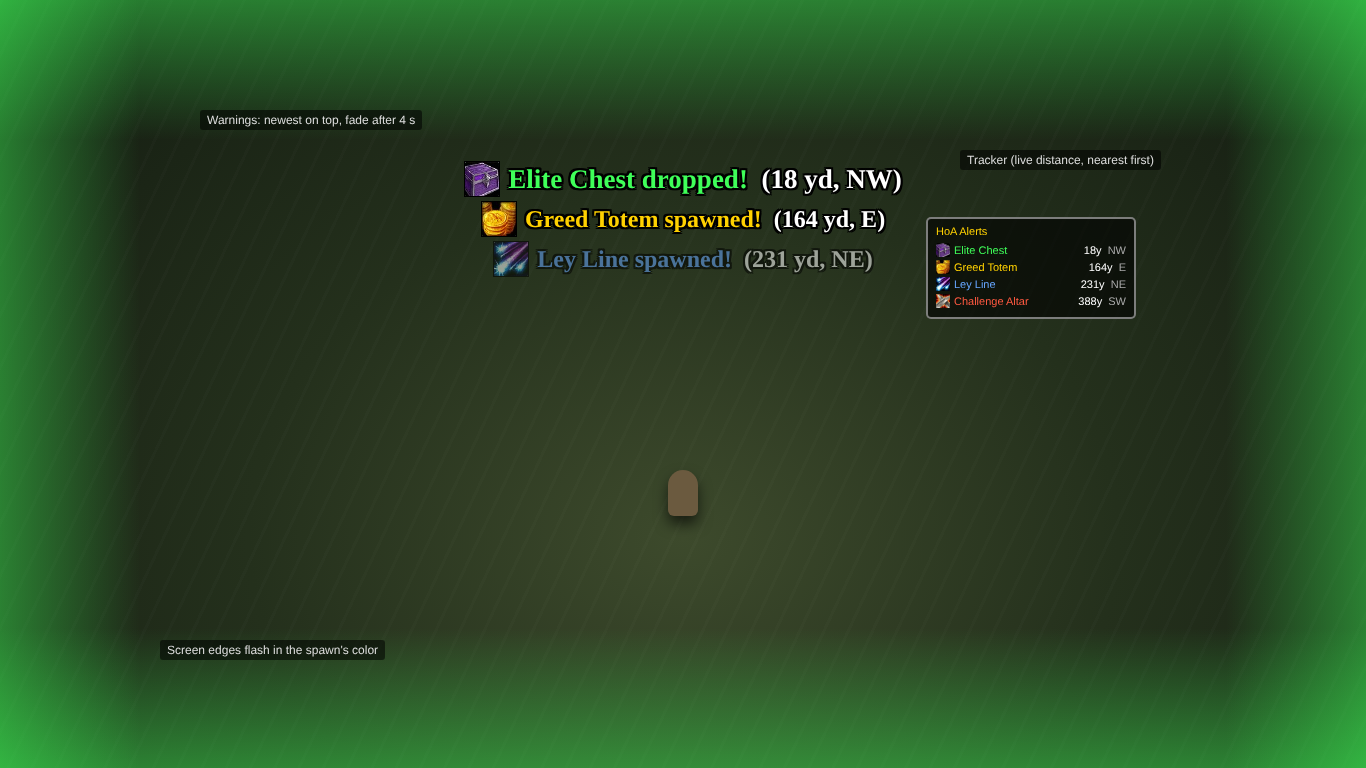
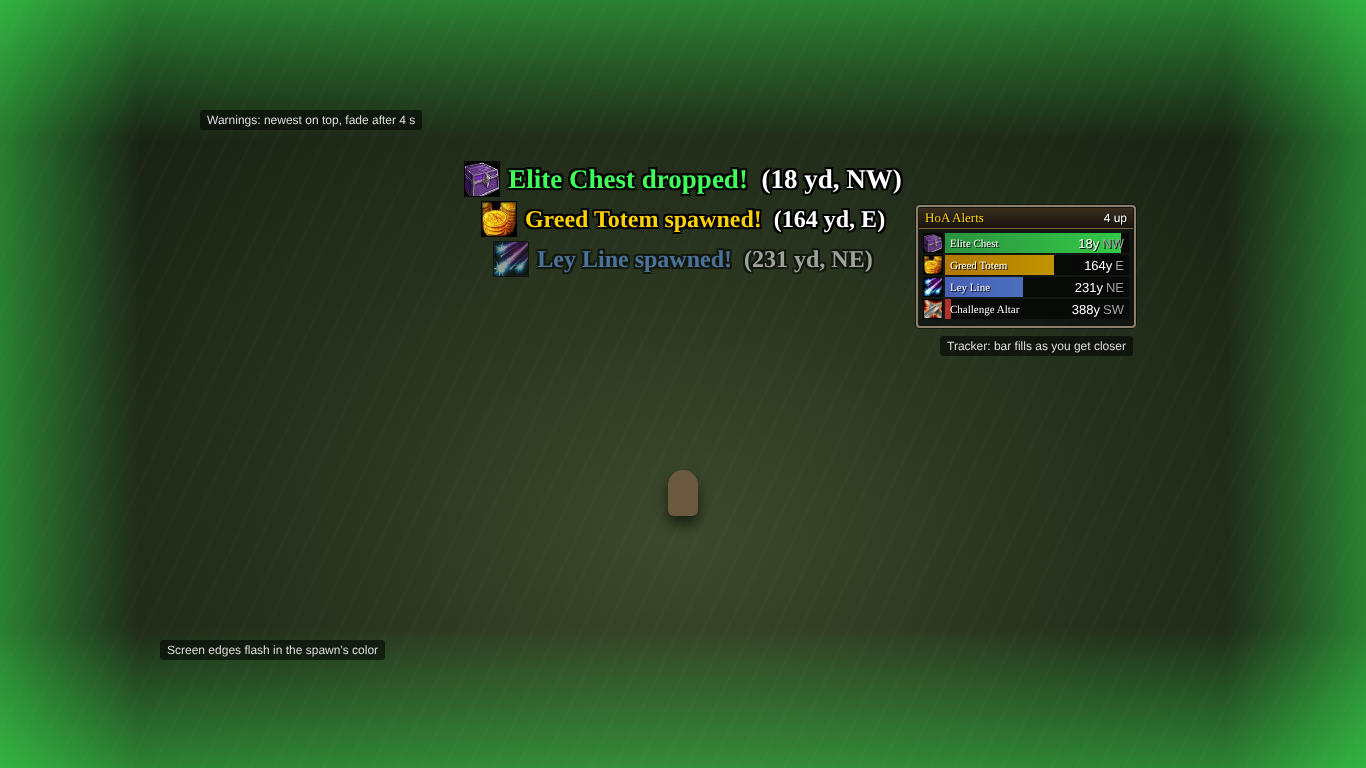
Restyle the tracker to match the damage meter
Use the meter's look: flat dark panel with the gold-brown tooltip
border, gradient header with a gold title and a count on the right, and
20 px rows with a black-framed icon, dark track and a left-to-right
shaded bar in the spawn's color. The bar shows closeness (full on top
of a spawn, empty at 400+ yards) and glides like the meter's bars.
Names use Friz Quadrata and numbers Arial Narrow, as in the meter.

Refresh the README preview to the new style.

Claude-Session: https://claude.ai/code/session_01QKDwL12sXUyq5tjcKJktwx

Changed region(s): [[0.6457, 0.25, 0.8302, 0.4688], [0.7072, 0.1875, 0.8302, 0.2188]]

diff --git a/README.md b/README.md
@@ -18,7 +18,7 @@ Each warning can:
 - play a **sound**
 - **flash the screen edges** in the spawn's color
 - print a **chat message**
-- add the spawn to a small **tracker list** that shows every active spawn, nearest first, with live distance and compass direction (N, NE, E, ...; north is up on the map)
+- add the spawn to a small **tracker list**, styled like the game's damage meter, that shows every active spawn, nearest first, with live distance and compass direction (N, NE, E, ...; north is up on the map). Each row's bar fills as you get closer (full when you're on it, empty at 400+ yards)
 
 It also **flashes the screen edges red when a ground effect hits you**, meaning you didn't get out of a
 telegraphed circle, cone, line, ring, eruption or bolt landing zone in time. Turn it off with `/hoaa ground`.
